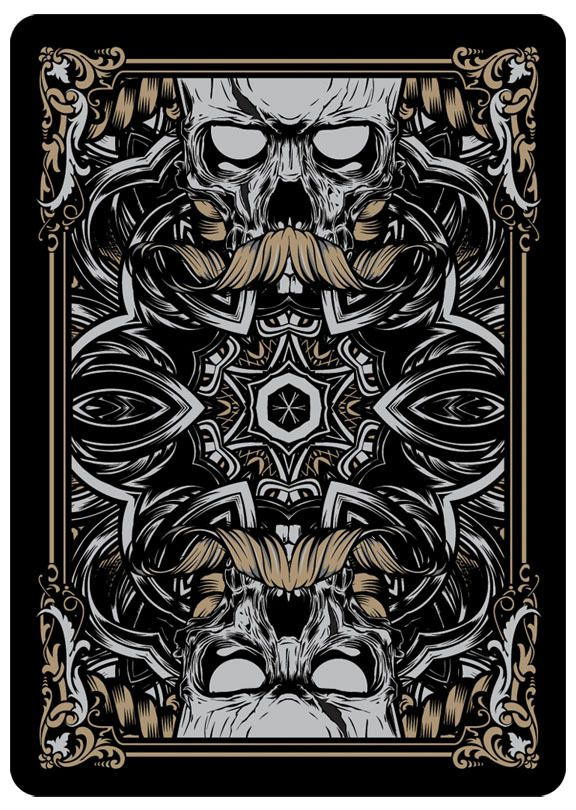
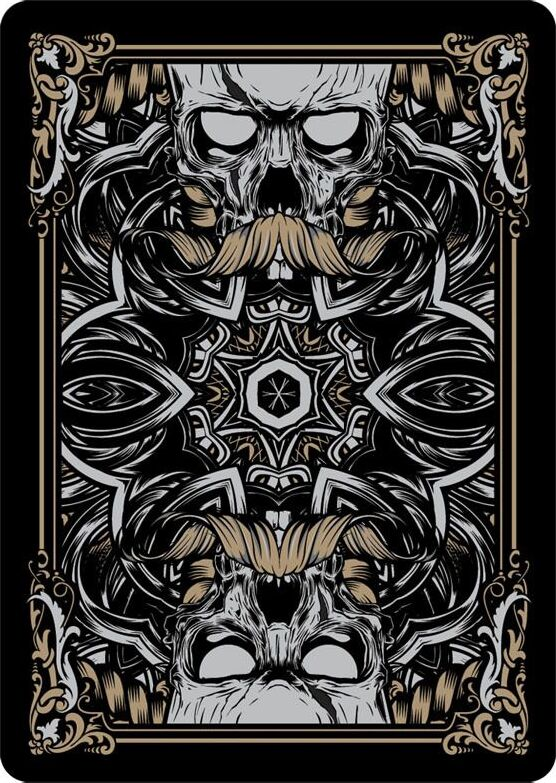
maj

diff --git a/src/CardList.jsx b/src/CardList.jsx
@@ -11,7 +11,7 @@ const CardList = ({ cards, isFlipped, onCardFlip, isStarted }) => {
             className="color-card"
             key={index}
             style={{
-              backgroundImage: isFlipped(index) ? '': `url(${process.env.PUBLIC_URL + '/img/dos3.jpg'})`,}}>
+              backgroundImage: isFlipped(index) ? '': `url(${process.env.PUBLIC_URL + '/img/dos2.jpg'})`,}}>
             <Card
               value={value}
               index={index}

diff --git a/src/card.css b/src/card.css
@@ -20,14 +20,13 @@
   grid-template-columns: repeat(4,1fr);
 }
 .color-card {
-  width: 252px;
+  width: 250px;
   height: 352px;
   margin: 10px;
   background-color: white;
   background-size: contain;
+  border-radius: 15px;
   background-repeat: no-repeat;
-  /* background-color: blue; */
-  border: solid black 5px;
 }
 .button{
   width: 110px;

diff --git a/src/Game.jsx b/src/Game.jsx
@@ -2,7 +2,7 @@ import React, { useState } from 'react';
 import CardList from './CardList.jsx';
 
 const Game = () => {
-  const cardList = [0, 1, 2, 4];
+  const cardList = [1, 2, 3, 4];
 
   const [dubbleCard, setDubbleCard] = useState([]);
   const [flippedCards, setFlippedCards] = useState([]);

diff --git a/src/Card.jsx b/src/Card.jsx
@@ -10,7 +10,7 @@ const Card = ({ value, index, onCardFlip, flipped }) => {
 
   return (
     <div className="card" onClick={handleCardClick}>
-      {flipped ? value : "?"}
+      {flipped ? value : ""}
     </div>
   );
 };

diff --git a/src/App.js b/src/App.js
@@ -7,7 +7,7 @@ import './App.css'
 function App() {
   return (
     <div className="App">
-      <h1>Jeu de Memory</h1>
+      <h1>Memory</h1>
       <Game/>
     </div>
   );
